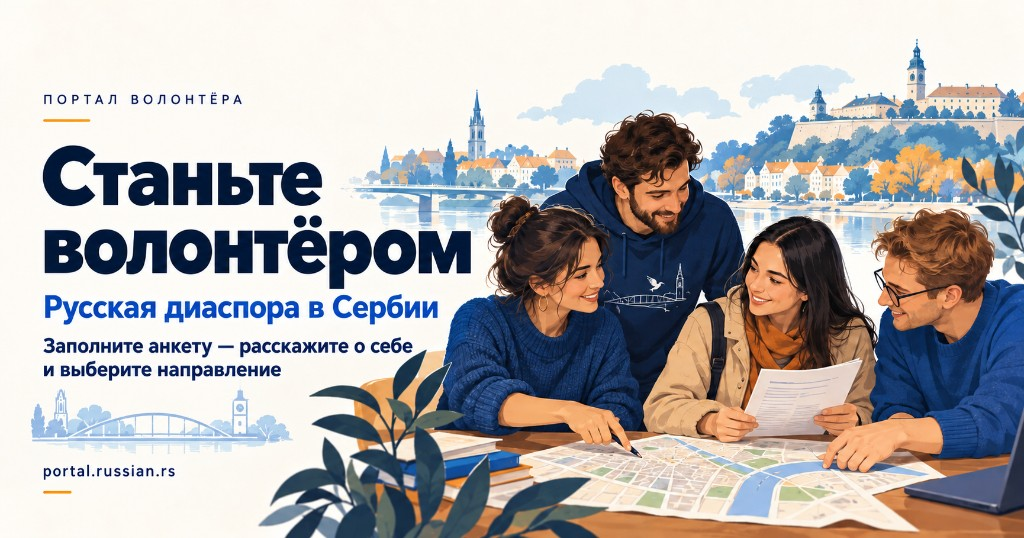
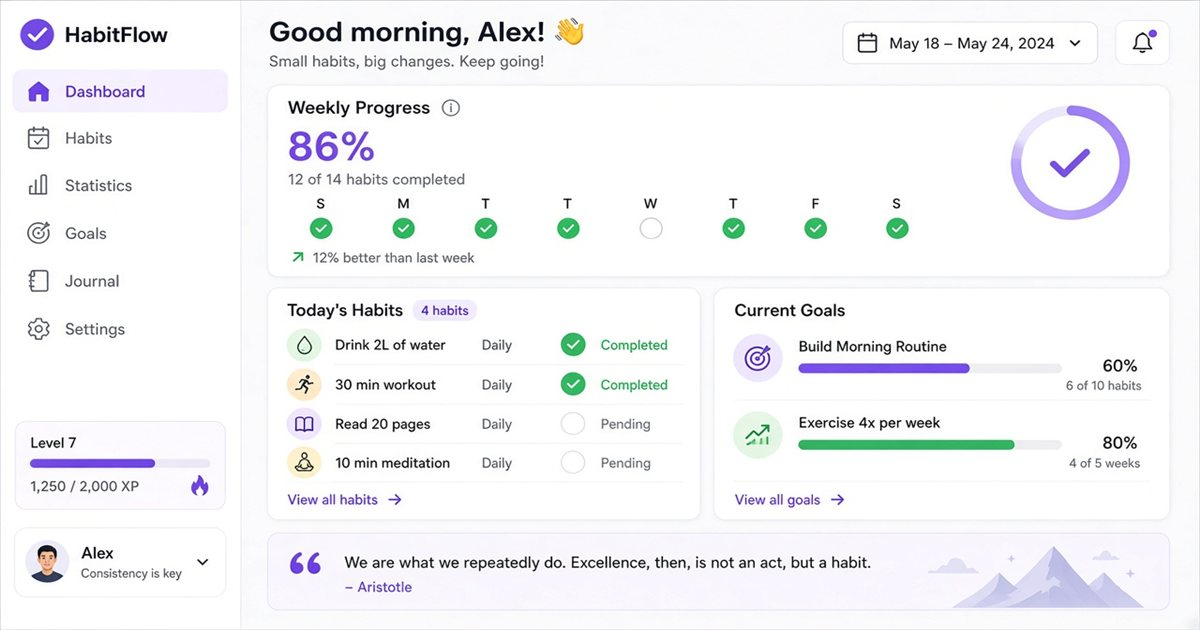
Refresh OG image 1200x630 and bust Telegram cache.

diff --git a/index.html b/index.html
@@ -15,22 +15,23 @@
             property="og:description"
             content="Объединяем тех, кто хочет помогать русскоязычному сообществу в Сербии. Заполните анкету о себе, опыте, городе и направлении — мы изучим заявку и ответим. При необходимости пригласим на короткую онлайн-встречу."
         />
-        <meta property="og:image" content="https://portal.russian.rs/resources/application-og.jpg" />
-        <meta property="og:image:secure_url" content="https://portal.russian.rs/resources/application-og.jpg" />
+        <meta property="og:site_name" content="Портал волонтера · Русская диаспора в Сербии" />
+        <meta property="og:image" content="https://portal.russian.rs/resources/application-og.jpg?v=2" />
+        <meta property="og:image:secure_url" content="https://portal.russian.rs/resources/application-og.jpg?v=2" />
         <meta property="og:image:type" content="image/jpeg" />
-        <meta property="og:image:width" content="1024" />
-        <meta property="og:image:height" content="538" />
+        <meta property="og:image:width" content="1200" />
+        <meta property="og:image:height" content="630" />
         <meta property="og:url" content="https://portal.russian.rs/application" />
         <meta property="og:type" content="website" />
         <meta property="og:locale" content="ru_RU" />
-        <link rel="image_src" href="https://portal.russian.rs/resources/application-og.jpg" />
+        <link rel="image_src" href="https://portal.russian.rs/resources/application-og.jpg?v=2" />
         <meta name="twitter:card" content="summary_large_image" />
         <meta name="twitter:title" content="Присоединяйтесь к Русской диаспоре в Сербии" />
         <meta
             name="twitter:description"
             content="Объединяем тех, кто хочет помогать русскоязычному сообществу в Сербии. Заполните анкету о себе, опыте, городе и направлении — мы изучим заявку и ответим."
         />
-        <meta name="twitter:image" content="https://portal.russian.rs/resources/application-og.jpg" />
+        <meta name="twitter:image" content="https://portal.russian.rs/resources/application-og.jpg?v=2" />
     </head>
     <body class="notranslate" translate="no">
         <noscript>You need to enable JavaScript to run this app</noscript>

diff --git a/public/application.html b/public/application.html
@@ -10,22 +10,23 @@
             property="og:description"
             content="Объединяем тех, кто хочет помогать русскоязычному сообществу в Сербии. Заполните анкету о себе, опыте, городе и направлении — мы изучим заявку и ответим. При необходимости пригласим на короткую онлайн-встречу."
         />
-        <meta property="og:image" content="https://portal.russian.rs/resources/application-og.jpg" />
-        <meta property="og:image:secure_url" content="https://portal.russian.rs/resources/application-og.jpg" />
+        <meta property="og:site_name" content="Портал волонтера · Русская диаспора в Сербии" />
+        <meta property="og:image" content="https://portal.russian.rs/resources/application-og.jpg?v=2" />
+        <meta property="og:image:secure_url" content="https://portal.russian.rs/resources/application-og.jpg?v=2" />
         <meta property="og:image:type" content="image/jpeg" />
-        <meta property="og:image:width" content="1024" />
-        <meta property="og:image:height" content="538" />
+        <meta property="og:image:width" content="1200" />
+        <meta property="og:image:height" content="630" />
         <meta property="og:url" content="https://portal.russian.rs/application" />
         <meta property="og:type" content="website" />
         <meta property="og:locale" content="ru_RU" />
-        <link rel="image_src" href="https://portal.russian.rs/resources/application-og.jpg" />
+        <link rel="image_src" href="https://portal.russian.rs/resources/application-og.jpg?v=2" />
         <meta name="twitter:card" content="summary_large_image" />
         <meta name="twitter:title" content="Присоединяйтесь к Русской диаспоре в Сербии" />
         <meta
             name="twitter:description"
             content="Объединяем тех, кто хочет помогать русскоязычному сообществу в Сербии. Заполните анкету о себе, опыте, городе и направлении — мы изучим заявку и ответим."
         />
-        <meta name="twitter:image" content="https://portal.russian.rs/resources/application-og.jpg" />
+        <meta name="twitter:image" content="https://portal.russian.rs/resources/application-og.jpg?v=2" />
         <meta http-equiv="refresh" content="0;url=/application" />
     </head>
     <body>
